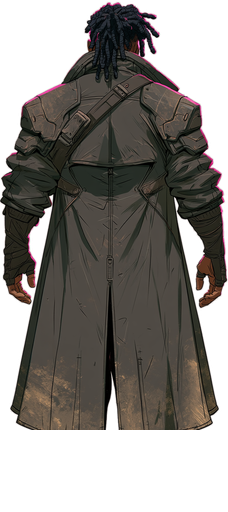
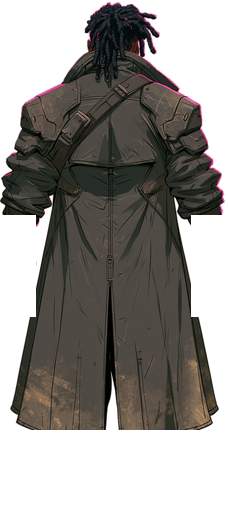
Elbow-pivot arm swing, foot lift, stride shadow
dev/rig_arms.py lifts each forearm out of a rig's core by fractional
box — the forearms hang over background in the new sheet, so the
erasure leaves clean silhouette, not a hole — and records elbow
pivots in the rig json. Front and back Socrates rigs gain armL/armR.

Runtime: forearms rotate around the elbows in opposite phase to the
legs (right arm forward with left leg), the swinging leg lifts off
the ground plane instead of skating flat, and the ground shadow
stretches with the stride. Side profile keeps torso-sway arms — the
arm overlaps the torso there, so cutting would scar the paint.

Changed region(s): [[0.8289, 0.4062, 1.0, 0.625], [0.0, 0.4062, 0.1842, 0.625]]

diff --git a/js/scene.js b/js/scene.js
@@ -262,11 +262,18 @@ export class SafehouseScene {
         if (!meta) return;
         const base = url.slice(0, url.lastIndexOf('/') + 1);
         const parts = {};
-        let left = 3;
+        const arms = ['armL', 'armR'].filter((k) => meta[k]);
+        let left = 3 + arms.length;
+        const done = () => { left -= 1; if (left === 0) cb({ ...meta, ...parts }); };
         for (const k of ['core', 'legL', 'legR']) {
           const img = new Image();
-          img.onload = () => { parts[k] = img; left -= 1; if (left === 0) cb({ ...meta, ...parts }); };
+          img.onload = () => { parts[k] = img; done(); };
           img.src = base + meta[k];
+        }
+        for (const k of arms) {
+          const img = new Image();
+          img.onload = () => { parts[k + 'Img'] = img; done(); };
+          img.src = base + meta[k].img;
         }
       })
       .catch(() => {});
@@ -1395,11 +1402,12 @@ export class SafehouseScene {
     this.streak(c.x, c.y + 2, r * 1.6, this.tileH * 2.2, this.accent, 0.07);
     ctx.globalCompositeOperation = 'source-over';
 
-    // ground shadow
+    // ground shadow, stretching slightly with the stride
+    const shadowStretch = walking ? 1 + Math.abs(legPhase) * 0.14 * this.strideV : 1;
     ctx.fillStyle = this.accent;
     ctx.globalAlpha = 0.18;
     ctx.beginPath();
-    ctx.ellipse(c.x, c.y, r * 1.1, r * 0.4, 0, 0, Math.PI * 2);
+    ctx.ellipse(c.x, c.y, r * 1.1 * shadowStretch, r * 0.4, 0, 0, Math.PI * 2);
     ctx.fill();
 
     // body art mode: the image is the figure — mirrored by facing, bobbing
@@ -1431,8 +1439,9 @@ export class SafehouseScene {
         for (const [key, pivot, ang] of [['legL', rig.pivotL, swing], ['legR', rig.pivotR, -swing]]) {
           const px = -bw / 2 + pivot[0] * sx;
           const py = -bh + pivot[1] * sy;
+          const lift = walking ? Math.max(0, -ang) * bh * 0.12 : 0;
           ctx.save();
-          ctx.translate(px, py);
+          ctx.translate(px, py - lift);
           ctx.rotate(ang);
           ctx.drawImage(rig[key], -bw / 2 - px, legY - py, bw, legH);
           ctx.restore();
@@ -1449,6 +1458,23 @@ export class SafehouseScene {
         ctx.shadowBlur = glow;
         ctx.drawImage(rig.core, -bw / 2, -bh - hipY - bh * breath, bw, bh * (1 + breath));
         ctx.restore();
+        // forearms swing opposite the legs, pivoted at the elbows
+        if (rig.armLImg || rig.armRImg) {
+          const armSwing = walking ? -legPhase * 0.2 * (0.45 + 0.55 * v) : 0;
+          ctx.shadowBlur = 0;
+          for (const [part, img, ang] of [
+            [rig.armL, rig.armLImg, armSwing], [rig.armR, rig.armRImg, -armSwing],
+          ]) {
+            if (!img) continue;
+            const px = -bw / 2 + part.pivot[0] * sx;
+            const py = -bh + part.pivot[1] * sy;
+            ctx.save();
+            ctx.translate(px, py);
+            ctx.rotate(ang);
+            ctx.drawImage(img, -bw / 2 - px, -bh - py, bw, bh);
+            ctx.restore();
+          }
+        }
       } else {
         ctx.shadowColor = this.accent;
         ctx.shadowBlur = glow;

diff --git a/dev/rig_arms.py b/dev/rig_arms.py
@@ -1,0 +1,52 @@
+#!/usr/bin/env python3
+"""Add elbow-pivoted forearms to an existing cutout rig.
+
+Usage: python3 dev/rig_arms.py <rig-prefix> <armL:x0,y0,x1,y1> <armR:x0,y0,x1,y1>
+
+Boxes are fractions of the source image. Each arm is lifted out of the core
+(the forearm hangs over background, so the erasure leaves silhouette, not a
+hole) and saved as its own layer with a pivot at the top-center of its box.
+Pass '-' to skip a side. Updates <prefix>-rig.json in place.
+"""
+import json
+import sys
+
+from PIL import Image
+import numpy as np
+
+
+def cut(core, box_frac, w, h):
+    x0, y0, x1, y1 = [float(v) for v in box_frac.split(',')]
+    x0, x1 = int(x0 * w), int(x1 * w)
+    y0, y1 = int(y0 * h), int(y1 * h)
+    arm = np.zeros_like(core)
+    arm[y0:y1, x0:x1] = core[y0:y1, x0:x1]
+    core[y0:y1, x0:x1, 3] = 0
+    m = arm[:, :, 3].astype(np.float64)
+    xs = np.arange(w)
+    cx = float((m.sum(axis=0) * xs).sum() / max(m.sum(), 1))
+    return arm, [round(cx, 1), y0]
+
+
+def main():
+    prefix, boxL, boxR = sys.argv[1], sys.argv[2], sys.argv[3]
+    meta = json.load(open(f'{prefix}-rig.json'))
+    core = np.asarray(Image.open(f'{prefix}-core.png').convert('RGBA')).copy()
+    h, w, _ = core.shape
+
+    for side, box in [('armL', boxL), ('armR', boxR)]:
+        if box == '-':
+            continue
+        arm, pivot = cut(core, box, w, h)
+        name = f'{prefix}-{side}.png'
+        Image.fromarray(arm).save(name)
+        meta[side] = {'img': name.split('/')[-1], 'pivot': pivot}
+        print(side, 'pivot', pivot)
+
+    Image.fromarray(core).save(f'{prefix}-core.png')
+    json.dump(meta, open(f'{prefix}-rig.json', 'w'), indent=2)
+    print('updated', f'{prefix}-rig.json')
+
+
+if __name__ == '__main__':
+    main()